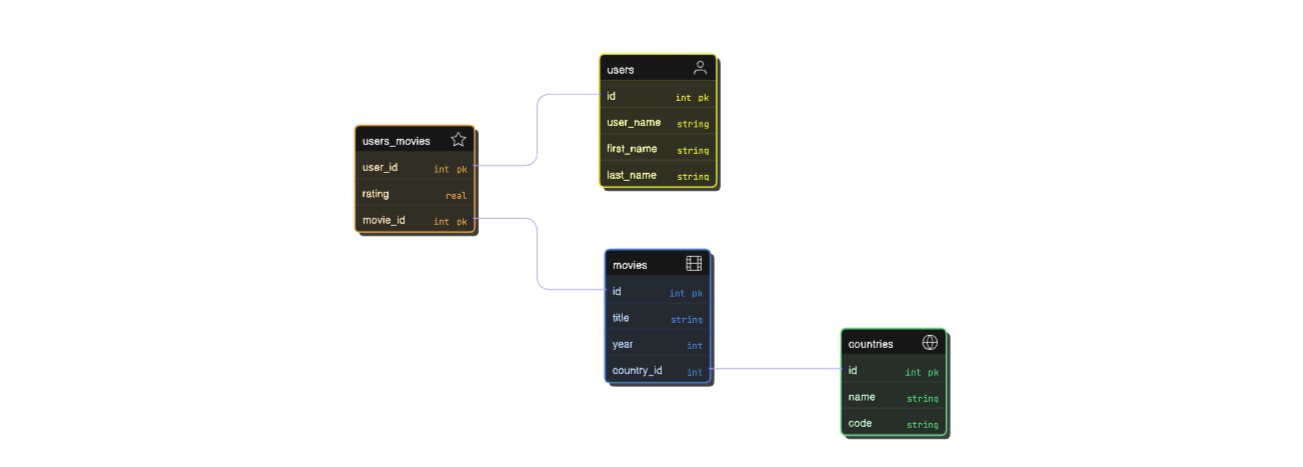
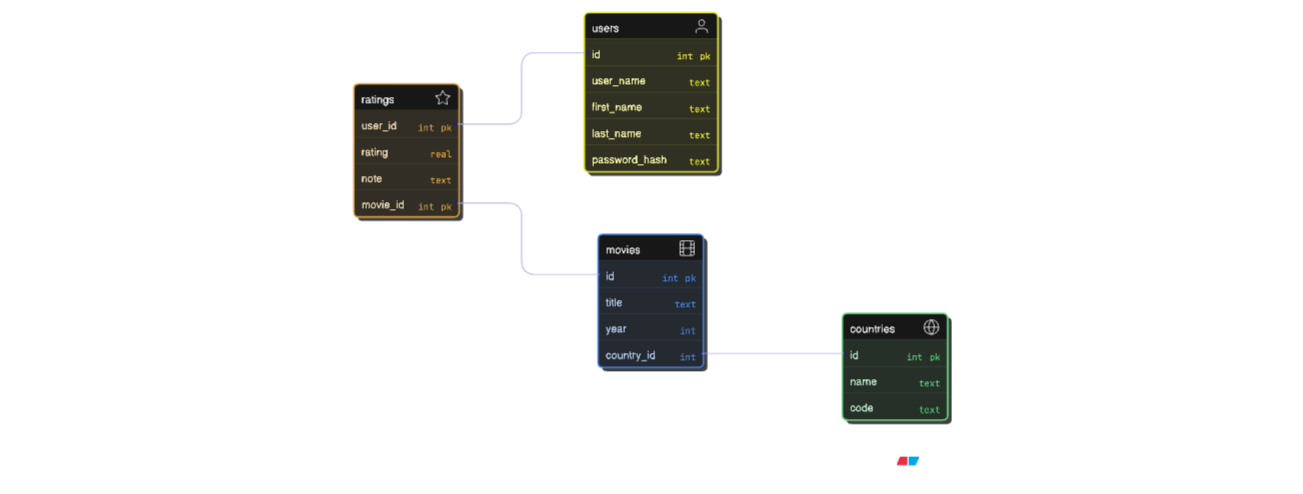
Modify database schema
- Renamed users_movies to ratings to reflect its purpose
- Added new field to ratings: note (TEXT) for a future rating feature
- Added new field to users: password_hash (TEXT) for a future user management feature

diff --git a/db_queries.py b/db_queries.py
@@ -1,14 +1,15 @@
 """This module contains all sqlite queries used.
 
 It also serves as a documentation for the different key value pairs
-needed to pass when calling the different sqlite query functions.
+needed to pass when calling the different sqlite query functions
+performing CRUD operations to the database.
 
 Simplified database structure for the project:
 
-    users: id:int (PK), user_name (unique), first_name, last_name
+    users: id:int (PK), user_name:text (unique), first_name:text, last_name:text, password_hash:text
     movies: id:int (PK), title:text (unique), year:int, country_id:in (FK)
     countries: id:int (PK), name:text, code:text
-    users_movies: user_id:int (PK, FK), movie_id:int (PK, FK), rating:real
+    ratings: user_id:int (PK, FK), movie_id:int (PK, FK), rating:real, note:text
 """
 
 # ---------------------------------------------------------------------
@@ -23,10 +24,11 @@ CREATE_TABLE_MOVIES_EXAMPLE = """
         )"""
 CREATE_TABLE_USERS = """
     CREATE TABLE IF NOT EXISTS users (
-        id          INTEGER PRIMARY KEY AUTOINCREMENT,
-        user_name   TEXT UNIQUE NOT NULL,
-        first_name  TEXT,
-        last_name   TEXT
+        id              INTEGER PRIMARY KEY AUTOINCREMENT,
+        user_name       TEXT UNIQUE NOT NULL,
+        first_name      TEXT,
+        last_name       TEXT,
+        password_hash   TEXT
     )"""
 CREATE_TABLE_COUNTRIES = """
     CREATE TABLE IF NOT EXISTS countries (
@@ -42,11 +44,12 @@ CREATE_TABLE_MOVIES = """
         country_id  INTEGER,
         FOREIGN KEY(country_id) REFERENCES countries(id)
     )"""
-CREATE_TABLE_USERS_MOVIES = """
-    CREATE TABLE IF NOT EXISTS users_movies (
+CREATE_TABLE_RATINGS = """
+    CREATE TABLE IF NOT EXISTS ratings (
         rating      REAL NOT NULL,
         user_id     INTEGER,
         movie_id    INTEGER,
+        note        TEXT,
         FOREIGN KEY(user_id) REFERENCES users(id),
         FOREIGN KEY(movie_id) REFERENCES movies(id)
     )"""
@@ -57,7 +60,7 @@ ADD_USER = ""
 ADD_COUNTRY = "INSERT INTO countries (name, code) VALUES (:name, :code)"
 ADD_MOVIE = ("INSERT INTO movies (title, year, country_id)"
              "VALUES (:title, :year, :country_id)")
-ADD_RATING = ("INSERT INTO users_movies (rating, user_id, movie_id)"
+ADD_RATING = ("INSERT INTO ratings (rating, user_id, movie_id)"
               "VALUES (:rating, :user_id, :movie_id)")
 # ---------------------------------------------------------------------
 # READ
@@ -67,15 +70,15 @@ LIST_MOVIES = """
         movies.title,
         movies.year,
         countries.name,
-        users_movies.rating
-    FROM users_movies
+        ratings.rating
+    FROM ratings
     JOIN
-        users ON users_movies.user_id = users.id
+        users ON ratings.user_id = users.id
     JOIN
-        movies ON users_movies.movie_id = movies.id
+        movies ON ratings.movie_id = movies.id
     JOIN
         countries ON countries.id = movies.country_id
-    WHERE users_movies.user_id = :user_id
+    WHERE ratings.user_id = :user_id
 """
 LIST_MOVIES_ALL_USERS = """
     SELECT
@@ -97,8 +100,8 @@ UPDATE_MOVIE = """
     WHERE id = :id
 """
 UPDATE_RATING = """
-    UPDATE users_movies
-    SET rating = :rating
+    UPDATE ratings
+    SET rating = :rating, note = :note
     WHERE user_id = :user_id AND movie_id = :movie_id
 """
 # ---------------------------------------------------------------------
@@ -106,6 +109,6 @@ UPDATE_RATING = """
 # ---------------------------------------------------------------------
 DELETE_USER = ""
 DELETE_RATING = """
-    DELETE FROM users_movies
+    DELETE FROM ratings
     WHERE user_id = :user_id AND movie_id = :movie_id
 """

diff --git a/database.py b/database.py
@@ -10,7 +10,7 @@ DB_INIT_QUERIES = [
     db_queries.CREATE_TABLE_USERS,
     db_queries.CREATE_TABLE_COUNTRIES,
     db_queries.CREATE_TABLE_MOVIES,
-    db_queries.CREATE_TABLE_USERS_MOVIES
+    db_queries.CREATE_TABLE_RATINGS
 ]
 
 # Create the engine
